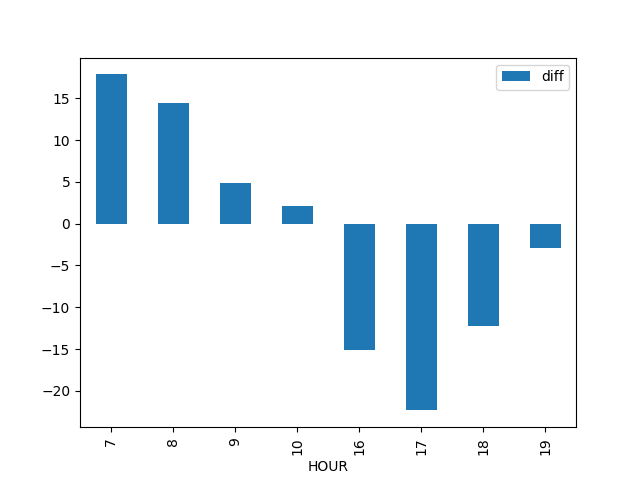
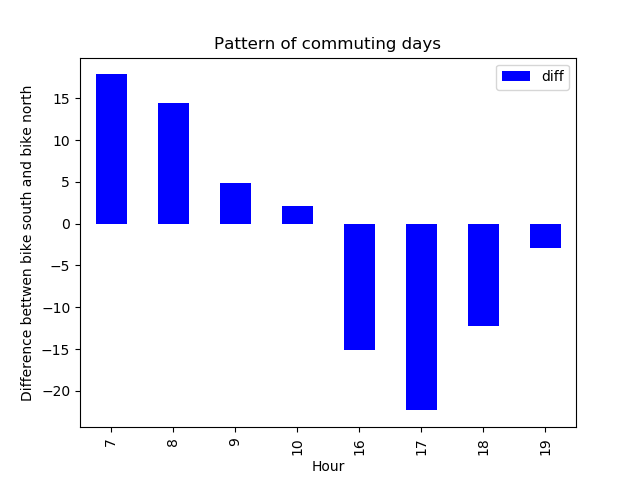
What you changed

diff --git a/commuters.py b/commuters.py
@@ -62,7 +62,10 @@ def plot_pattern(df):
     df = df[(morning_data | evening_data) & days_of_week]
     df['diff'] = df.loc[:, 'Bike South'] - df.loc[:, 'Bike North']
     filtered_df = df.groupby(['HOUR'], as_index=False).mean()
-    filtered_df.plot(x='HOUR', y='diff', kind='bar')
+    filtered_df.plot(x='HOUR', y='diff', color = 'b', kind='bar')
+    plt.title("Pattern of commuting days")
+    plt.xlabel('Hour')
+    plt.ylabel('Difference bettwen bike south and bike north')
     plt.savefig('plots/test.png')
 
 def main():
